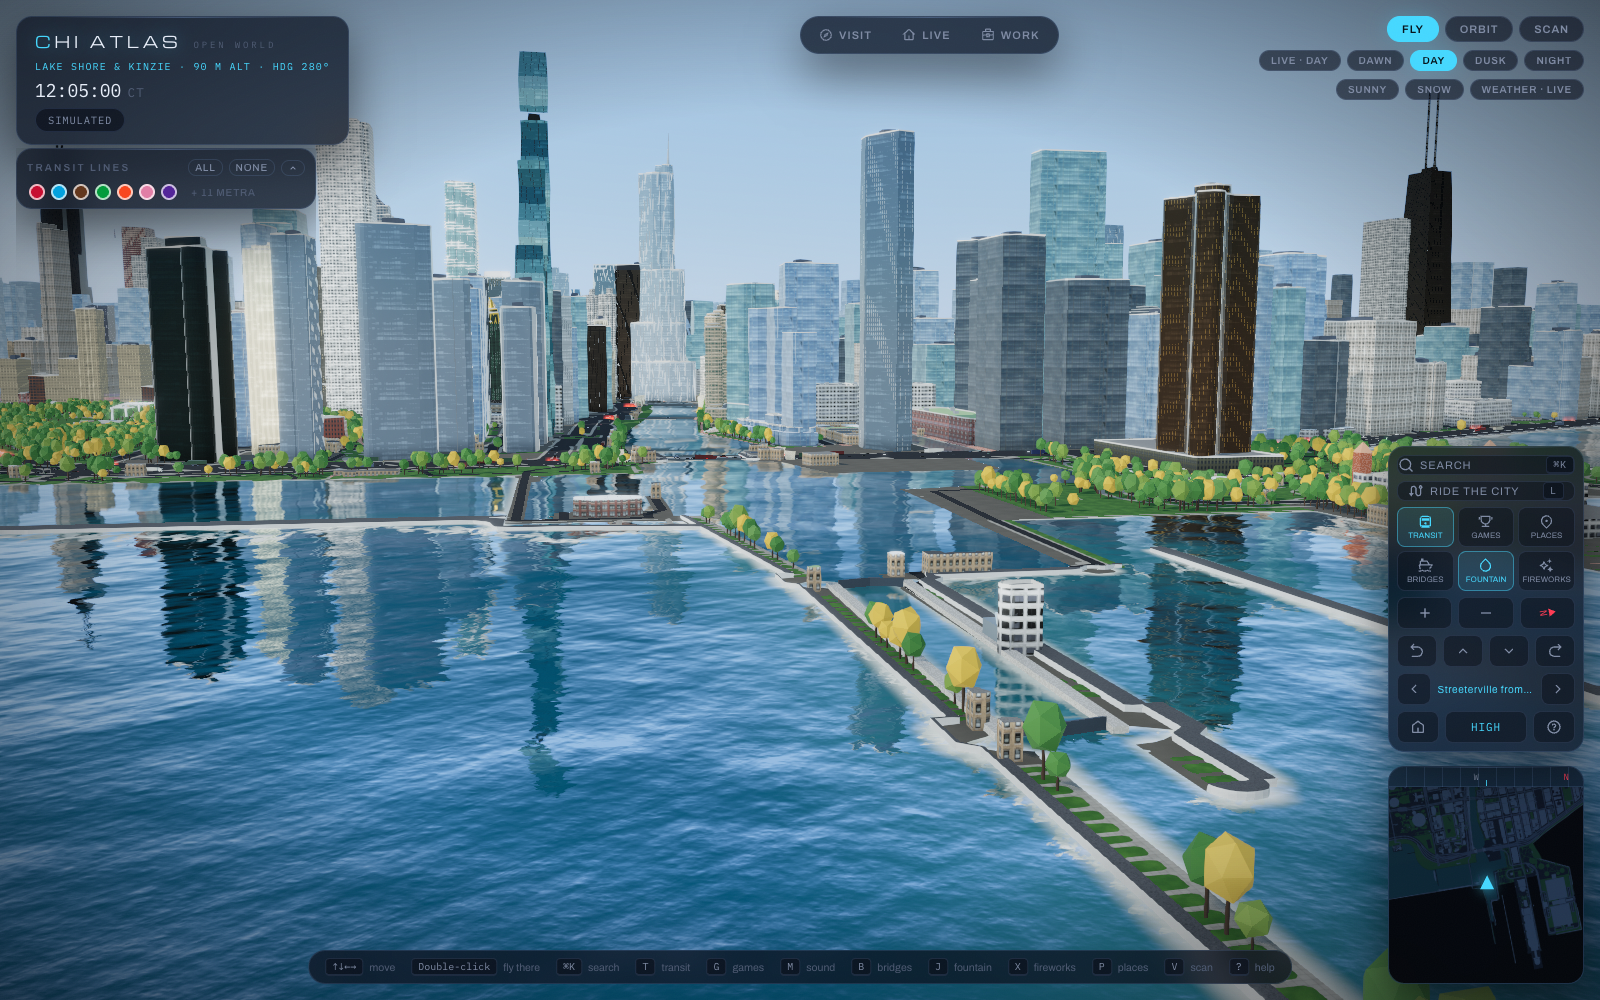
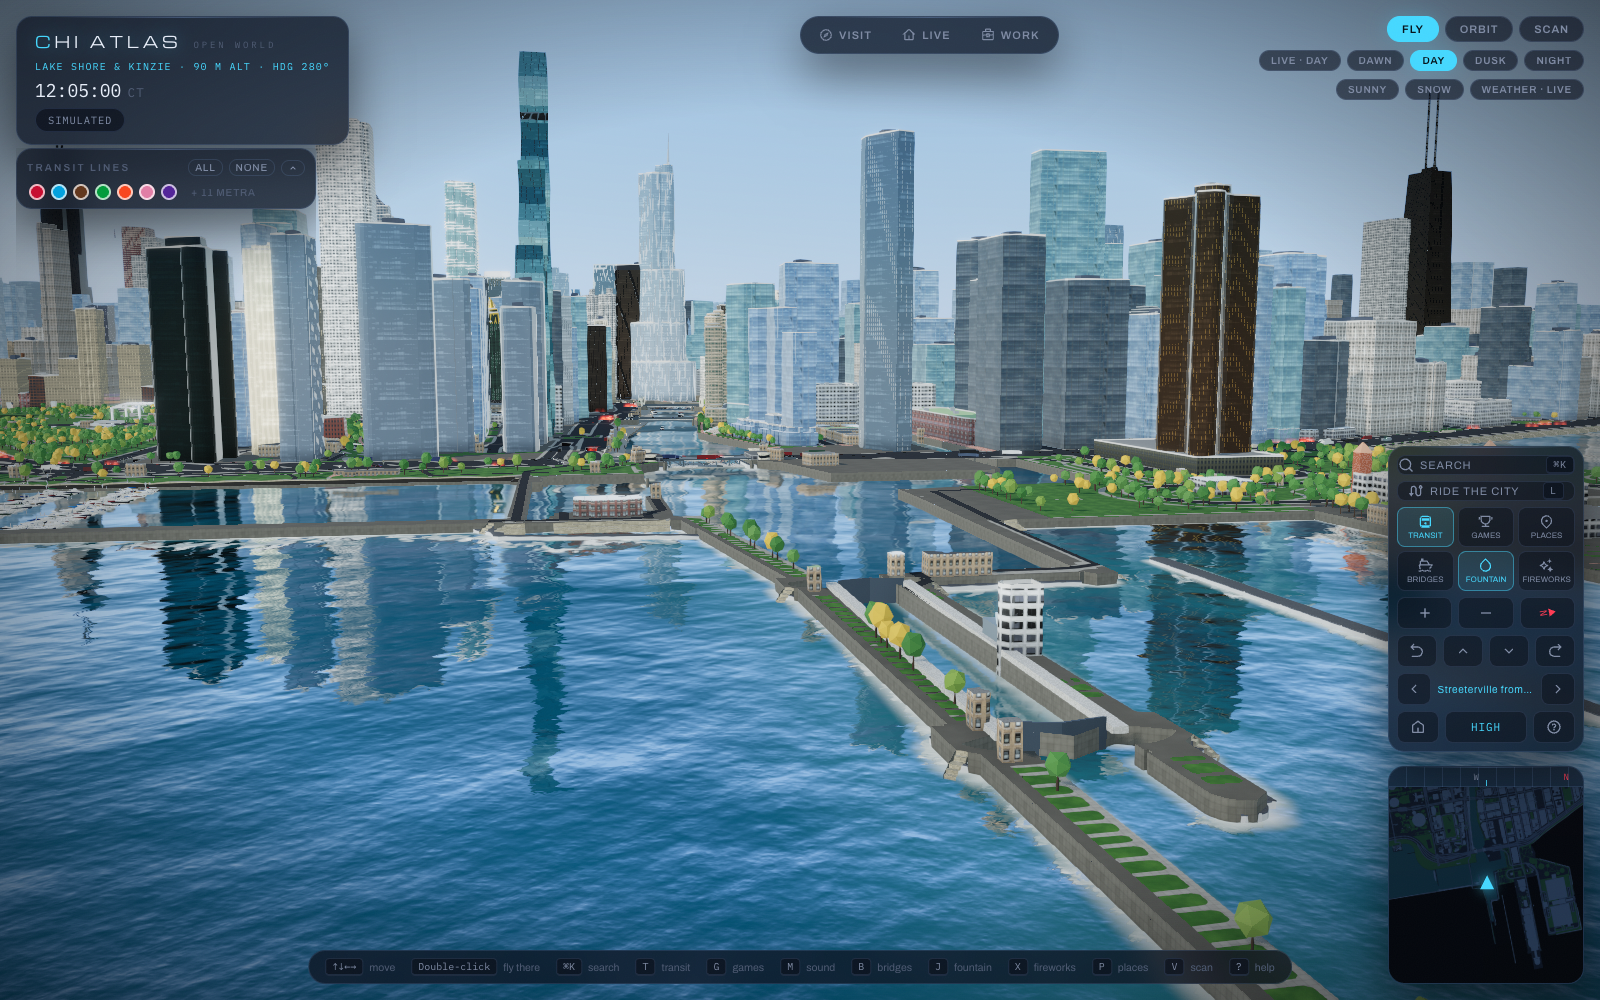
fix(stregis): close the blow-through — slabs, soffit, dark inner wall and columns behind a fine steel grille
The two-storey blow-through (floor 83, ~300 m, 24 ft of grates) was an empty see-through gap: its floor
and soffit caps faced into the frustums, and none of it was in LOD1. Now a floor slab faces up, a soffit
faces down, a dark inner wall and columns sit 2.4 m in, and ~210 thin vertical fins (0.5 m spacing,
stregis-grille steel) screen the open faces; slabs and wall kept in LOD1. +1.35k triangles; night stays dark.
README river-mouth pair re-taken (old frames in evolution/).

diff --git a/pipeline/lib/rivericons.js b/pipeline/lib/rivericons.js
@@ -207,7 +207,50 @@ function trump({ pieces, sp, main }) {
 
 // St. Regis Chicago (Studio Gang, 2020): three stacks of alternating frustums, each leaning out 1.6 m over 13 floors
 // and back over the next 13 (a 24.4 m ↔ 27.4 m floor plate); glass dark at a frustum's waist and bright at its belt
-// (six shades, three rows here); the open blow-through floor near the top of the tallest stack.
+// (six shades, three rows here); the blow-through near the top of the tallest stack — one continuous two-storey void
+// (floor 83 in the tower's numbering, 24 ft / 7.3 m tall) closed by a floor slab and a soffit, a dark inner wall and
+// columns behind a fine vertical steel grille painted like the glass, so it reads as a dark band and never see-through.
+// The blow-through between two frustum rings at y0/y1: slabs, inner wall, columns and the grille.
+export function blowThrough(outerA, outerB, y0, y1, { every = 0.5, finW = 0.09, finD = 0.4, inset = 2.4, slabH = 0.6, col = 0.9 } = {}) {
+  const A = ensureCCW(outerA), B = ensureCCW(outerB), n = A.length
+  const lerp = (p, q, f) => [p[0] + (q[0] - p[0]) * f, p[1] + (q[1] - p[1]) * f]
+  // the floor slab (top of the frustum below, facing up) and the soffit (underside of the frustum above, facing down)
+  const slabs = capRing(mesh(), A, y0)
+  capRing(slabs, B, y1, true)
+  // the dark inner wall (a solid core face set back `inset` from the glass line) with its own floor and ceiling ring
+  const IA = offsetRing(A, -inset), IB = offsetRing(B, -inset)
+  const inner = loft([IA, IB], [y0, y1], { cap: false })
+  // the structure behind the grille: square columns at the plate corners and mid-edges, inside the glass line
+  const cols = mesh()
+  for (let i = 0; i < n; i++) {
+    const j = (i + 1) % n
+    for (const f of [0, 0.5]) {
+      const pa = lerp(A[i], A[j], f), pb = lerp(B[i], B[j], f), mid = lerp(pa, pb, 0.5), c = ringCentroid(A)
+      const toC = norm2(sub2(c, mid)), at = add2(mid, mul2(toC, inset * 0.45))
+      slab(cols, at, norm2(sub2(A[j], A[i])), col, col, y0, y1)
+    }
+  }
+  // the grille: thin vertical fins on the glass line, leaning with the frustum, `finD` deep into the void, and a
+  // slab-edge band top and bottom
+  const grille = mesh()
+  for (let i = 0; i < n; i++) {
+    const j = (i + 1) % n, d = sub2(A[j], A[i]), len = Math.hypot(...d)
+    if (len < 0.3) continue
+    const t = mul2(d, 1 / len), nn = [-t[1], t[0]], k = Math.max(1, Math.round(len / every))
+    for (let m = 0; m < k; m++) {
+      const f = (m + 0.5) / k, a = lerp(A[i], A[j], f), b = lerp(B[i], B[j], f)
+      const P = (p, s, dd, y) => [p[0] + t[0] * s - nn[0] * dd, y, p[1] + t[1] * s - nn[1] * dd]
+      quad(grille, P(a, -finW / 2, 0, y0), P(a, finW / 2, 0, y0), P(b, finW / 2, 0, y1), P(b, -finW / 2, 0, y1), [nn[0], 0, nn[1]])
+      for (const sg of [-1, 1]) quad(grille, P(a, (sg * finW) / 2, 0, y0), P(a, (sg * finW) / 2, finD, y0), P(b, (sg * finW) / 2, finD, y1), P(b, (sg * finW) / 2, 0, y1), [t[0] * sg, 0, t[1] * sg])
+    }
+    const ext = 0.02
+    for (const [p0, p1, yb, yt] of [[A[i], A[j], y0, y0 + slabH], [B[i], B[j], y1 - slabH, y1]]) {
+      const o = mul2(nn, ext)
+      quad(grille, Y(add2(p0, o), yb), Y(add2(p1, o), yb), Y(add2(p1, o), yt), Y(add2(p0, o), yt), [nn[0], 0, nn[1]])
+    }
+  }
+  return { slabs, inner, cols, grille }
+}
 function stregis({ pieces, sp }) {
   const stacks = pieces.filter((p) => p.top > (sp.stackMinM ?? 100)).sort((a, b) => b.top - a.top)
   const module = sp.moduleM ?? 47, sMin = sp.waistScale ?? 0.89, meshes = []
@@ -216,7 +259,7 @@ function stregis({ pieces, sp }) {
     const c = ringCentroid(p.outer), phase = idx === 1 ? 1 : 0 // the middle stack's belts meet the outer stacks' waists
     const sAt = (y) => { const k = Math.floor(y / module), f = y / module - k, up = (k + phase) % 2 === 0; return up ? sMin + (1 - sMin) * f : 1 - (1 - sMin) * f }
     const gap = idx === 0 && sp.gapM ? [sp.gapM, sp.gapM + (sp.gapH ?? 7.2)] : null
-    let y = 0
+    let y = 0, gapDone = false
     while (y < p.top - 0.01) {
       const yEnd = Math.min(p.top, (Math.floor(y / module + 1e-9) + 1) * module)
       // thirds of each frustum: the shade follows the plate width (narrow = dark)
@@ -224,11 +267,15 @@ function stregis({ pieces, sp }) {
         let a = y + ((yEnd - y) * t) / 3, b = y + ((yEnd - y) * (t + 1)) / 3
         const mid = (a + b) / 2, s = sAt(mid), shade = s < sMin + (1 - sMin) / 3 ? 0 : s < sMin + (2 * (1 - sMin)) / 3 ? 1 : 2
         if (gap && b > gap[0] && a < gap[1]) {
-          // the blow-through: a recessed open floor (the core only) between gap[0] and gap[1]
+          // the blow-through: an open two-storey void, closed and screened (see blowThrough)
           if (a < gap[0]) pushAll(shades[shade], loft([scaleRing(p.outer, c, sAt(a)), scaleRing(p.outer, c, sAt(gap[0]))], [a, gap[0]], { cap: false }))
-          meshes.push(part(loft([scaleRing(p.outer, c, 0.42), scaleRing(p.outer, c, 0.42)], [gap[0], gap[1]], { cap: false }), F.paint, 'stregis-gap', 'blow-through'))
-          meshes.push(part(capRing(mesh(), scaleRing(p.outer, c, sAt(gap[0])), gap[0], true), F.paint, 'stregis-gap', 'gap-soffit'))
-          meshes.push(part(capRing(mesh(), scaleRing(p.outer, c, sAt(gap[1])), gap[1]), F.paint, 'stregis-gap', 'gap-floor'))
+          if (!gapDone) {
+            gapDone = true
+            const bt = blowThrough(scaleRing(p.outer, c, sAt(gap[0])), scaleRing(p.outer, c, sAt(gap[1])), gap[0], gap[1])
+            meshes.push(part(bt.slabs, F.paint, 'stregis-gap', 'gap-slabs', { lod1: true }))
+            meshes.push(part(merge(bt.inner, bt.cols), F.paint, 'stregis-gap', 'blow-through', { lod1: true }))
+            meshes.push(part(bt.grille, F.steel, 'stregis-grille', 'grille'))
+          }
           if (b > gap[1]) pushAll(shades[shade], loft([scaleRing(p.outer, c, sAt(gap[1])), scaleRing(p.outer, c, sAt(b))], [gap[1], b], { cap: false }))
           continue
         }

diff --git a/pipeline/tests/rivericons.test.js b/pipeline/tests/rivericons.test.js
@@ -75,6 +75,16 @@ describe('Tier 1 (A-3): crowns and massing', () => {
     const gap = r.extraMeshes.find((m) => m.part === 'blow-through')
     expect(min(ys([gap]))).toBeCloseTo(300, 1); expect(max(ys([gap]))).toBeCloseTo(307.2, 1)
     expect(r.pieces.filter((p) => p.hidden).length).toBe(3) // the stacks draw themselves
+    // the blow-through is never see-through: a floor slab facing up at 300 m, a soffit facing down at 307.2 m, a solid
+    // inner wall and columns (kept in LOD1), and a fine steel grille of vertical fins across the open faces
+    const slabs = r.extraMeshes.find((m) => m.part === 'gap-slabs'), grille = r.extraMeshes.find((m) => m.part === 'grille')
+    const ny = (m, y) => { const o = []; for (let i = 0; i < m.positions.length; i += 9) if (Math.abs(m.positions[i + 1] - y) < 0.01 && Math.abs(m.positions[i + 4] - y) < 0.01 && Math.abs(m.positions[i + 7] - y) < 0.01) o.push(m.normals[i + 1]); return o }
+    expect(ny(slabs, 300).length).toBeGreaterThan(0); expect(ny(slabs, 300).every((n) => n > 0.99)).toBe(true)
+    expect(ny(slabs, 307.2).length).toBeGreaterThan(0); expect(ny(slabs, 307.2).every((n) => n < -0.99)).toBe(true)
+    expect(slabs.lod0Only || gap.lod0Only).toBe(false)
+    expect(grille.style).toBe('stregis-grille')
+    expect(tris([grille]) / 6).toBeGreaterThan(150) // ~0.5 m fin spacing round a ~100 m plate
+    expect(min(ys([grille]))).toBeCloseTo(300, 1); expect(max(ys([grille]))).toBeCloseTo(307.2, 1)
     // a frustum's widest belt is the OSM plate, its waist 89 % of it
     expect(inside(r.extraMeshes, rect(0, 0, 106, 47), 0.5)).toBe(true)
     expect(tris(r.extraMeshes)).toBeLessThan(15000)

diff --git a/README.md b/README.md
@@ -476,7 +476,7 @@ Forty-four buildings and structures along the main stem and both branches, each 
 <td width="50%"><img src="docs/screenshots/v9-river-mouth-night.png" alt="The river mouth at night" width="100%"/></td>
 </tr>
 <tr>
-<td colspan="2"><em>The mouth: the Harbor Lock's 600 × 80 ft chamber, its sector gates and the zinc control house, with Lake Point and the Streeterville wall behind.</em></td>
+<td colspan="2"><em>The mouth: the Harbor Lock's 600 × 80 ft chamber, its sector gates and the zinc control house, with Lake Point and the Streeterville wall behind — and, left, the St. Regis with its two-storey blow-through closed in slabs behind a fine steel grille.</em></td>
 </tr>
 <tr>
 <td width="50%"><img src="docs/screenshots/v9-river-dusable-day.png" alt="DuSable Bridge by day" width="100%"/></td>
